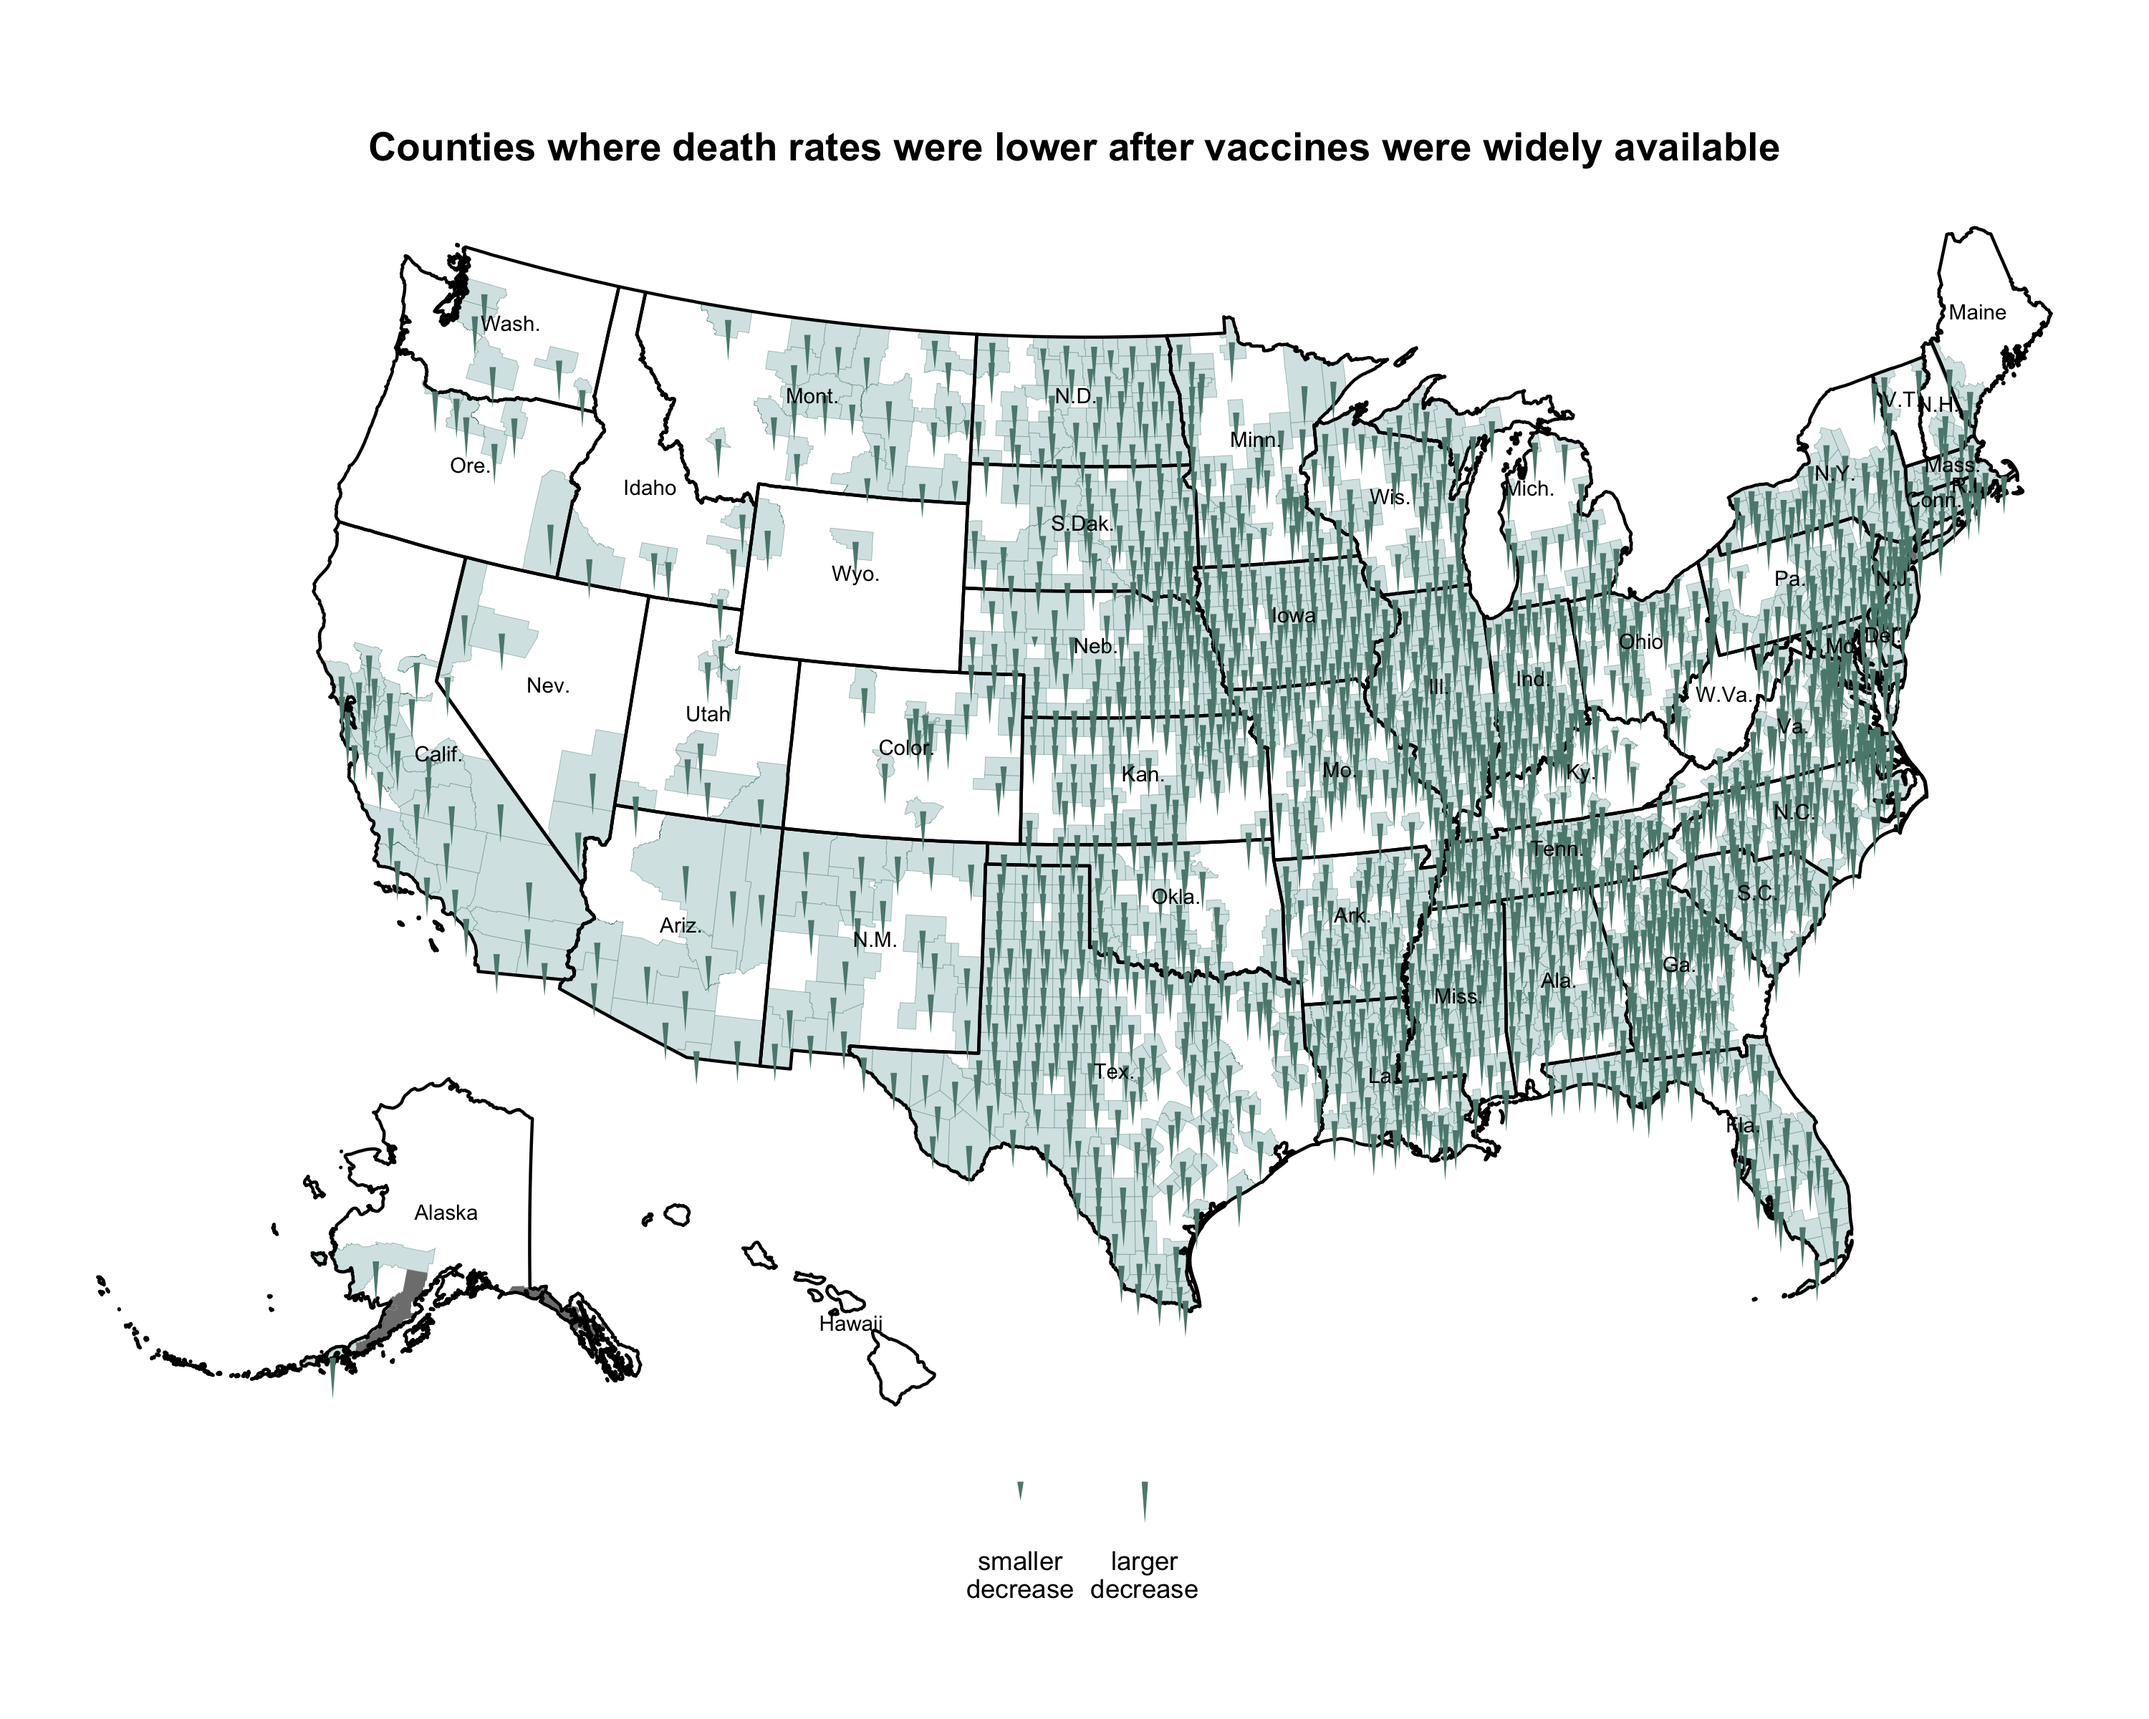
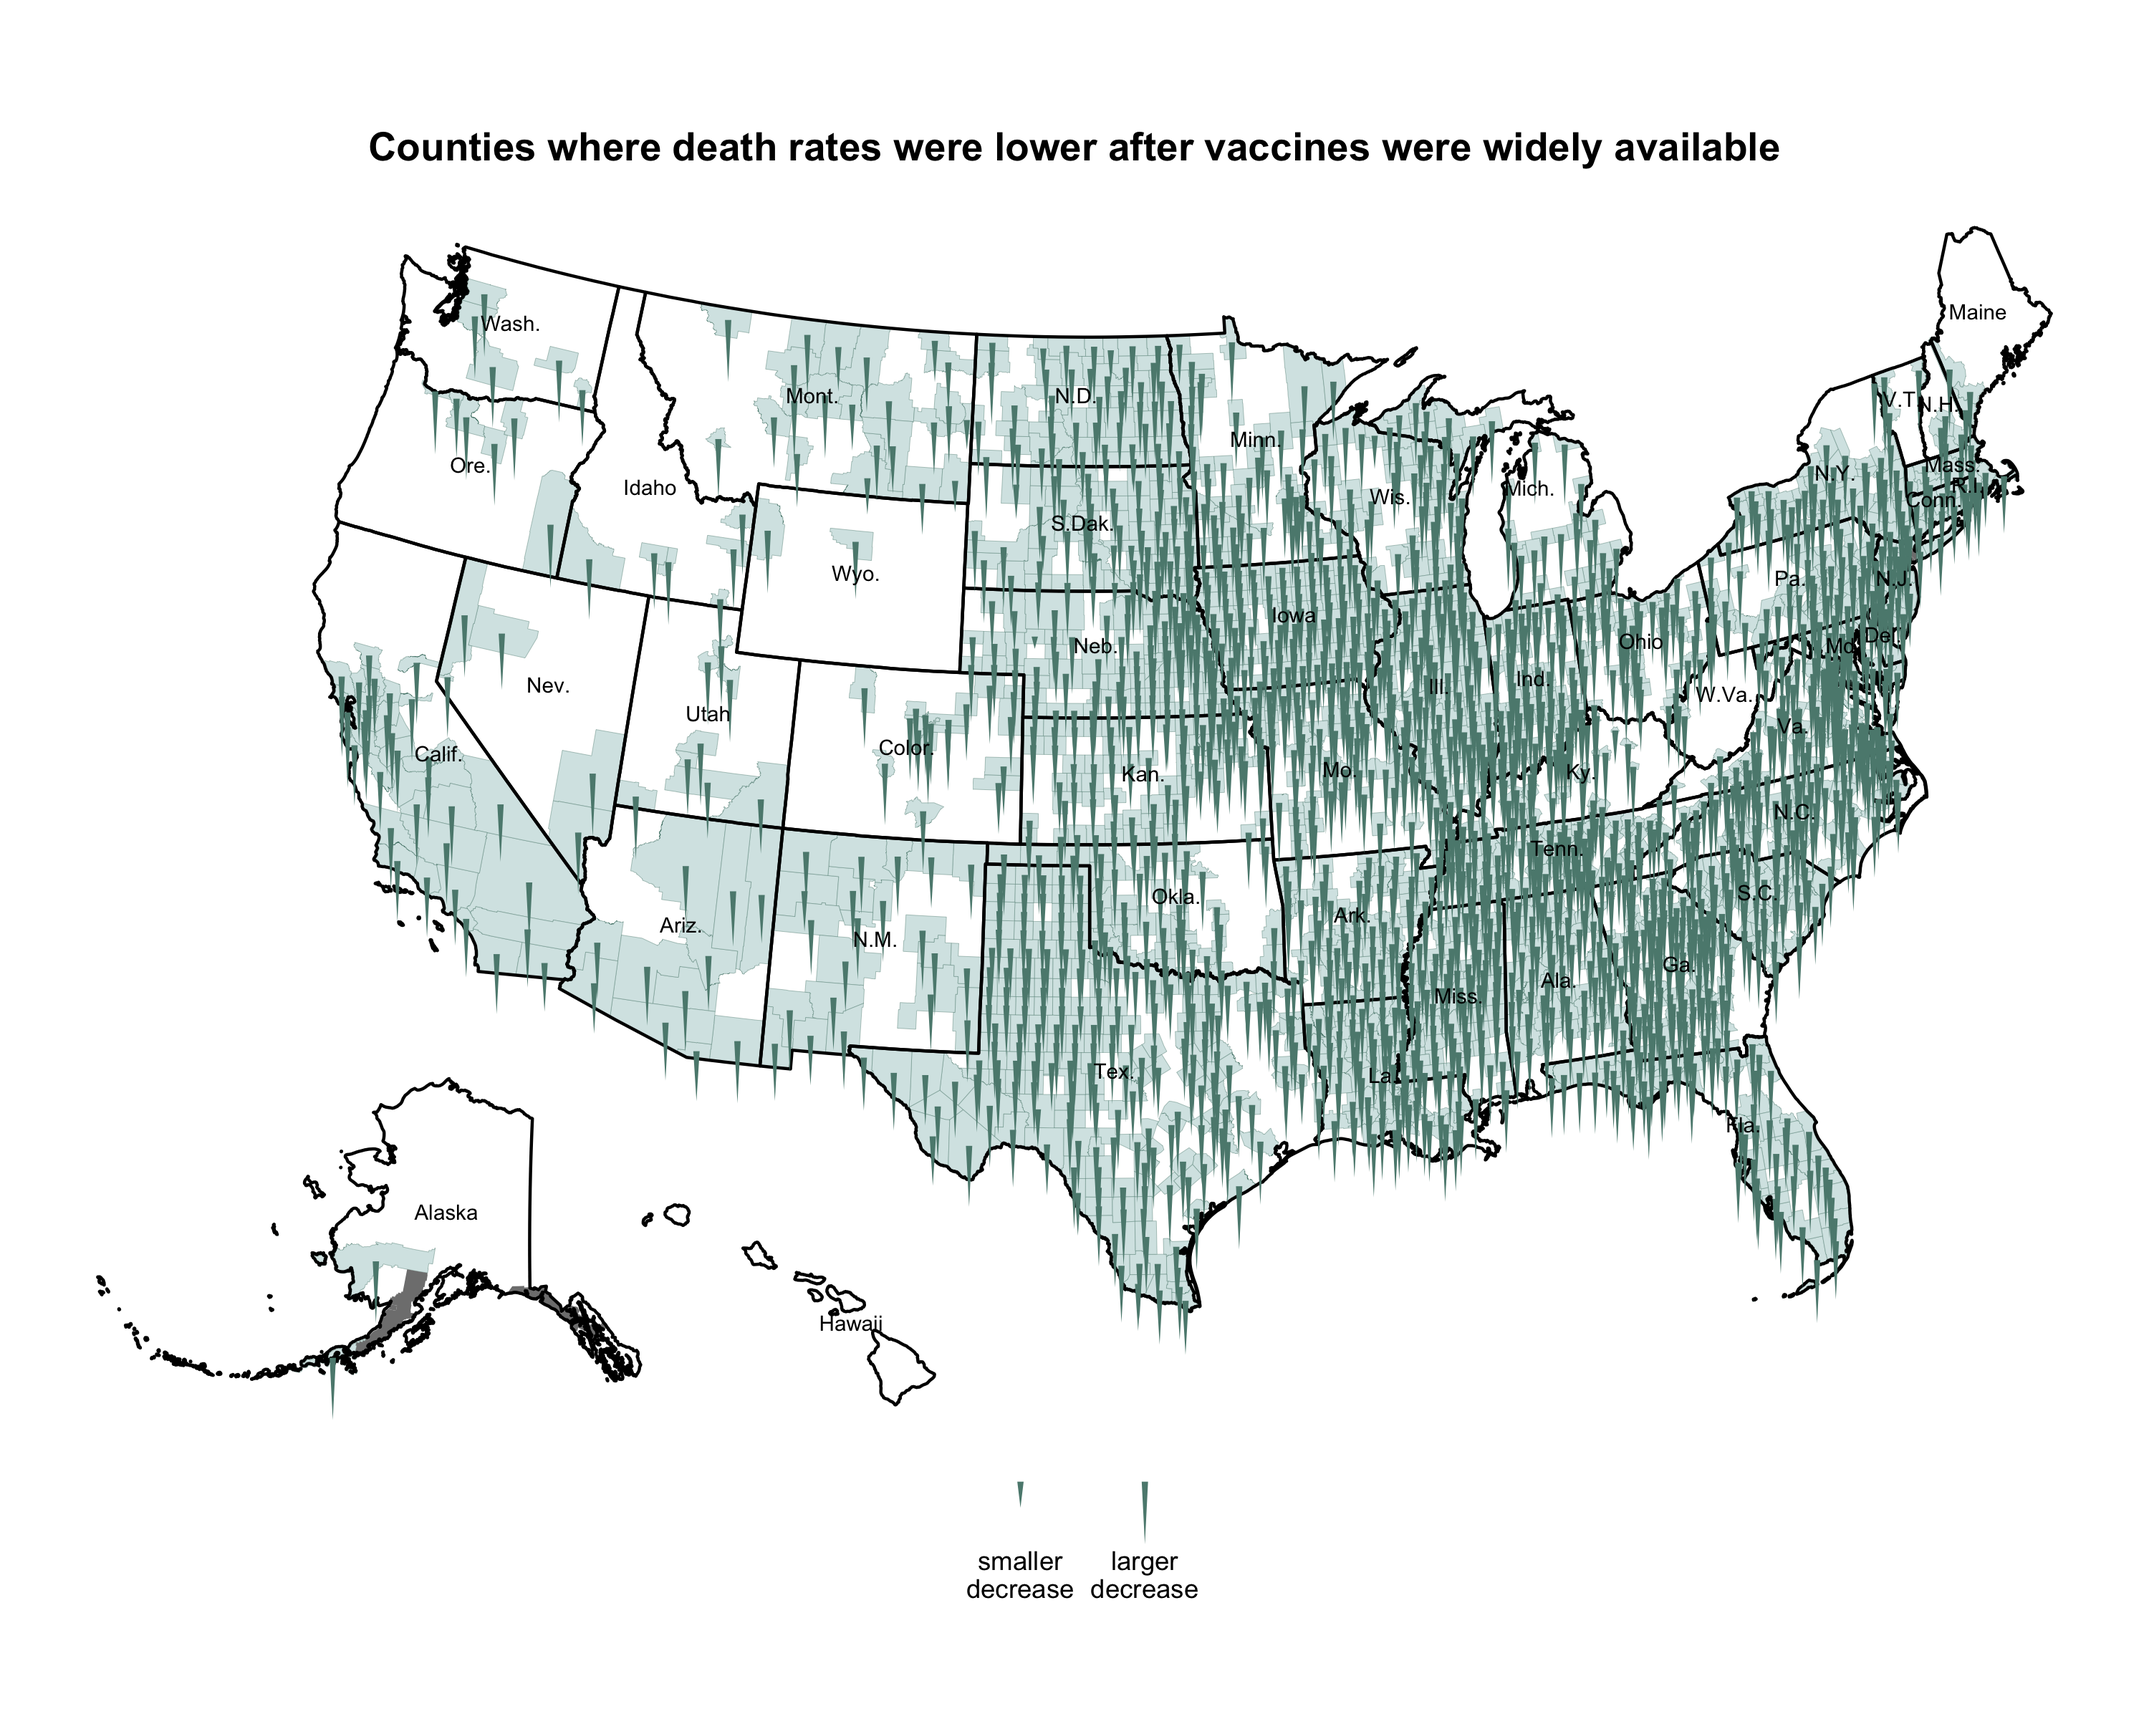
incorporate anomaly removal as per nyt; add notes to readme

diff --git a/readme.md b/readme.md
@@ -80,11 +80,13 @@ use-case for `ggtriangles`.
 ![](img/nyt_decreased_counties.png)
 
 You can check out how I did it in the vignette available through the vignette
-available in 
-`browseVignettes('ggtriangles')` or the source code,
+available in `browseVignettes('ggtriangles')` or the source code,
 [vignettes/recreating_nytimes_viz.Rmd](vignettes/recreating_nytimes_viz.Rmd).
 Note that these figures are provided purely as examples and not meant for
-decision making purposes or scientific usage.
+decision making purposes or scientific usage. I'm pleased with how well I was
+able to replicate their plot of where death rates had increased, but I can't say
+for sure why I appear to be getting much larger decreases in the COVID-19 death
+rates per 100,000 than they did in their analysis.
 
 
 ### feedback
